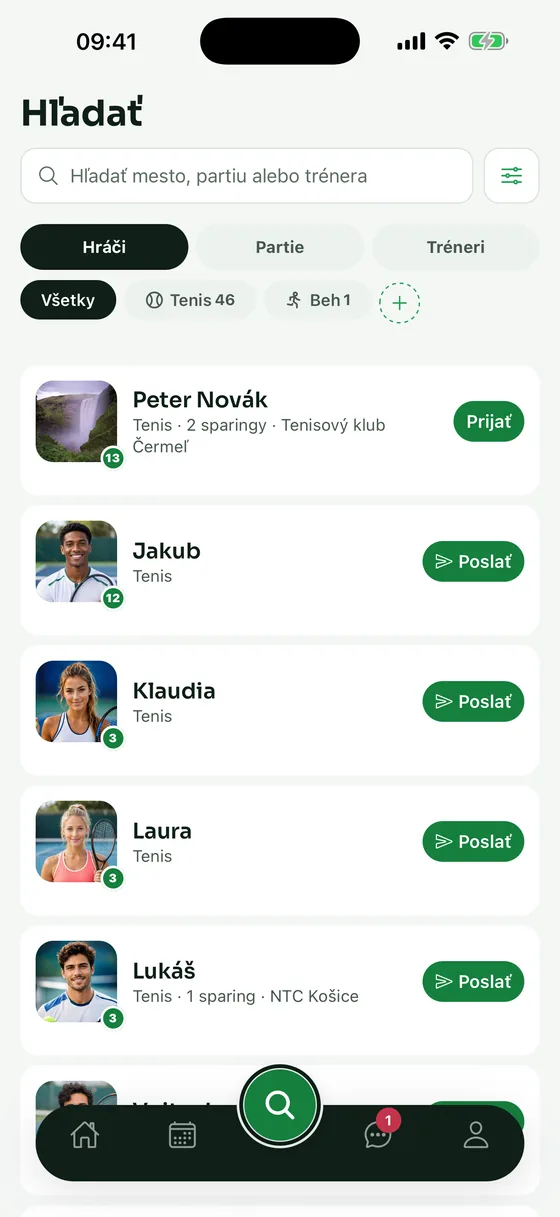
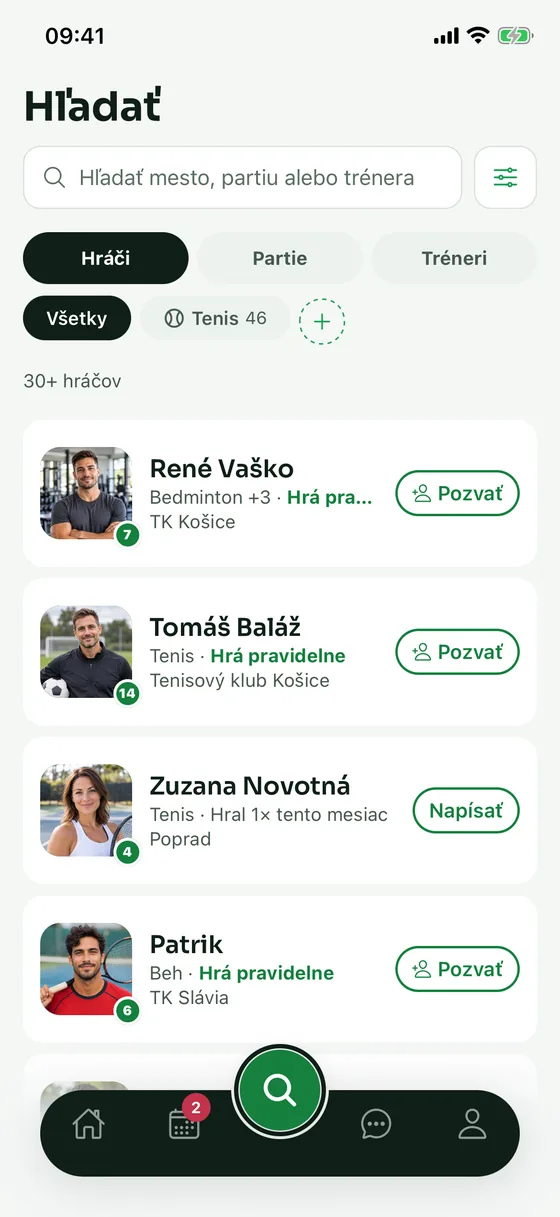
Nové screenshoty appky: fotky namiesto avatarov a dnešné rozhranie
Snímky boli z 20.–24. 9.: v zozname trénerov a hráčov boli maskoti a
rozhranie sa odvtedy zmenilo. Adresa obrázkov má verziu, aby si ich
prehliadače nenechali staré.

diff --git a/index.html b/index.html
@@ -646,7 +646,7 @@ footer .foot-h{color:#fff;margin:0 0 14px;text-transform:uppercase;letter-spacin
       <article class="pillar" id="spoluhraci">
         <div class="pillar-media reveal">
           <div class="phone">
-            <img src="img/app-hraci.webp" alt="Hráči v meste podľa športu so žiadosťou o hru" width="560" height="1217" loading="lazy" decoding="async">
+            <img src="img/app-hraci.webp?v=2" alt="Hráči v meste podľa športu so žiadosťou o hru" width="560" height="1217" loading="lazy" decoding="async">
           </div>
         </div>
         <div class="reveal">
@@ -669,10 +669,10 @@ footer .foot-h{color:#fff;margin:0 0 14px;text-transform:uppercase;letter-spacin
       <article class="pillar flip" id="partie">
         <div class="pillar-media two reveal">
           <div class="phone">
-            <img src="img/app-mapa.webp" alt="Partie na mape mesta s najbližším termínom" width="640" height="1391" loading="lazy" decoding="async">
+            <img src="img/app-mapa.webp?v=2" alt="Partie na mape mesta s najbližším termínom" width="640" height="1391" loading="lazy" decoding="async">
           </div>
           <div class="phone">
-            <img src="img/app-partia.webp" alt="Detail partie s najbližším termínom, účasťou a pokladňou" width="560" height="1217" loading="lazy" decoding="async">
+            <img src="img/app-partia.webp?v=2" alt="Detail partie s najbližším termínom, účasťou a pokladňou" width="560" height="1217" loading="lazy" decoding="async">
           </div>
         </div>
         <div class="reveal">
@@ -703,10 +703,10 @@ footer .foot-h{color:#fff;margin:0 0 14px;text-transform:uppercase;letter-spacin
       <article class="pillar" id="hracom">
         <div class="pillar-media two reveal">
           <div class="phone">
-            <img src="img/app-treneri.webp" alt="Zoznam trénerov s cenou za hodinu, hodnotením a klubom" width="560" height="1217" loading="lazy" decoding="async">
+            <img src="img/app-treneri.webp?v=2" alt="Zoznam trénerov s cenou za hodinu, hodnotením a klubom" width="560" height="1217" loading="lazy" decoding="async">
           </div>
           <div class="phone">
-            <img src="img/app-rezervacia.webp" alt="Rezervácia tréningu: výber športu, počtu hráčov, dňa a času" width="520" height="1130" loading="lazy" decoding="async">
+            <img src="img/app-rezervacia.webp?v=2" alt="Rezervácia tréningu: výber športu, počtu hráčov, dňa a času" width="520" height="1130" loading="lazy" decoding="async">
           </div>
         </div>
         <div class="reveal">
@@ -746,10 +746,10 @@ footer .foot-h{color:#fff;margin:0 0 14px;text-transform:uppercase;letter-spacin
       <div class="showcase-media reveal">
         <div class="duo">
           <div class="phone">
-            <img src="img/app-odmena.webp" alt="Mystery boxy v appke: box pripravený na otvorenie" width="520" height="1131" loading="lazy" decoding="async">
+            <img src="img/app-odmena.webp?v=2" alt="Mystery boxy v appke: box pripravený na otvorenie" width="520" height="1131" loading="lazy" decoding="async">
           </div>
           <div class="phone">
-            <img src="img/app-zbierka.webp" alt="Zbierka avatarov: 17 z 34 postavičiek" width="520" height="1131" loading="lazy" decoding="async">
+            <img src="img/app-zbierka.webp?v=2" alt="Zbierka avatarov v appke" width="520" height="1131" loading="lazy" decoding="async">
           </div>
         </div>
       </div>
@@ -803,7 +803,7 @@ footer .foot-h{color:#fff;margin:0 0 14px;text-transform:uppercase;letter-spacin
     <div class="showcase">
       <div class="showcase-media reveal">
         <div class="phone">
-            <img src="img/app-trener.webp" alt="Prehľad trénera so zostatkom na výber a dnešným tréningom" width="520" height="1130" loading="lazy" decoding="async">
+            <img src="img/app-trener.webp?v=2" alt="Prehľad trénera s dnešným tréningom a žiadosťami hráčov" width="520" height="1130" loading="lazy" decoding="async">
           </div>
       </div>
       <div class="reveal">
